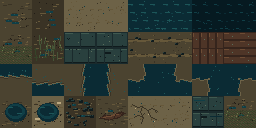
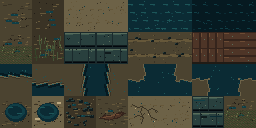
feat: 涉水地形与全单位血条批次化
- 水面改为可通行（桥面保持干燥），玩家/敌兵/佣兵统一受 0.62 涉水减速
- 水面移动生成扩散水环水花，数据数组池上限 90，不创建节点
- 新增三选一属性卡「涉水绑腿」（民俗，最高 5 级，每级 -8% 减速）
- 全单位血条改为单批 MultiMesh：460 敌 draw calls 942→23，稳定 59–60 FPS
- 难度曲线终值回调至 ×1.45/×1.20/×1.08，并落实 GDD 的 30 级上限
- 岸线增加水深刻画与浪花，石板/桥板增加高度投影
- GUT 135/135，35195 asserts

diff --git a/pixel-art/yongchang_tiles/build.py b/pixel-art/yongchang_tiles/build.py
@@ -208,8 +208,11 @@ def stone_road(s: Sprite, index: int, variant: int = 0) -> None:
         spans = ((1, 15), (17, 30)) if row == 0 else ((1, 7), (9, 23), (25, 30))
         for x0, x1 in spans:
             rect(s, ox, oy, x0, y0, x1, y1, STONE)
-            rect(s, ox, oy, x0, y0, min(x1, x0 + 7), y0, STONE_LIGHT)
-            rect(s, ox, oy, x0, y1, x1, y1, STONE_SHADOW)
+            # 上缘受光、下缘落影，让每块石板有清晰的凸起感。
+            rect(s, ox, oy, x0, y0, x1, y0, STONE_HIGHLIGHT)
+            rect(s, ox, oy, x0, y0 + 1, min(x1, x0 + 7), y0 + 1, STONE_LIGHT)
+            rect(s, ox, oy, x0, y1 - 1, x1, y1, STONE_SHADOW)
+            rect(s, ox, oy, x0, y1, x1, y1, INK)
     rng = random.Random(7100 + variant)
     for _ in range(14):
         x = rng.randrange(3, TILE - 3)
@@ -262,6 +265,8 @@ def dock_planks(s: Sprite, index: int, vertical: bool = True) -> None:
             rect(s, ox, oy, 0, y0 + 7, TILE - 1, y0 + 7, WOOD_DARK)
             for x in (8, 24):
                 px(s, ox + x, oy + y0 + 4, STONE_HIGHLIGHT)
+    # 桥面高出水面：只压南侧投影，横向拼接时不会出现一格格黑框。
+    rect(s, ox, oy, 0, TILE - 2, TILE - 1, TILE - 1, EARTH_DARKEST)
 
 
 def shore_side(s: Sprite, index: int, side: str) -> None:
@@ -273,27 +278,31 @@ def shore_side(s: Sprite, index: int, side: str) -> None:
             rect(s, ox, oy, pos, edge, pos, TILE - 1, EARTH)
             px(s, ox + pos, oy + edge, SAND)
             px(s, ox + pos, oy + edge + 1, EARTH_DARK)
-            if pos % 8 in (0, 1, 5):
+            rect(s, ox, oy, pos, edge - 3, pos, edge - 1, WATER_DEEP)
+            if pos % 4 in (0, 1):
                 px(s, ox + pos, oy + edge - 1, WATER_CREST)
         elif side == "s":
             boundary = TILE - 1 - edge
             rect(s, ox, oy, pos, 0, pos, boundary, EARTH)
             px(s, ox + pos, oy + boundary, SAND)
             px(s, ox + pos, oy + boundary - 1, EARTH_DARK)
-            if pos % 8 in (0, 1, 5):
+            rect(s, ox, oy, pos, boundary + 1, pos, boundary + 3, WATER_DEEP)
+            if pos % 4 in (0, 1):
                 px(s, ox + pos, oy + boundary + 1, WATER_CREST)
         elif side == "e":
             boundary = TILE - 1 - edge
             rect(s, ox, oy, 0, pos, boundary, pos, EARTH)
             px(s, ox + boundary, oy + pos, SAND)
             px(s, ox + boundary - 1, oy + pos, EARTH_DARK)
-            if pos % 8 in (0, 1, 5):
+            rect(s, ox, oy, boundary + 1, pos, boundary + 3, pos, WATER_DEEP)
+            if pos % 4 in (0, 1):
                 px(s, ox + boundary + 1, oy + pos, WATER_CREST)
         else:
             rect(s, ox, oy, edge, pos, TILE - 1, pos, EARTH)
             px(s, ox + edge, oy + pos, SAND)
             px(s, ox + edge + 1, oy + pos, EARTH_DARK)
-            if pos % 8 in (0, 1, 5):
+            rect(s, ox, oy, edge - 3, pos, edge - 1, pos, WATER_DEEP)
+            if pos % 4 in (0, 1):
                 px(s, ox + edge - 1, oy + pos, WATER_CREST)
     for _ in range(8):
         x = rng.randrange(2, TILE - 2)
